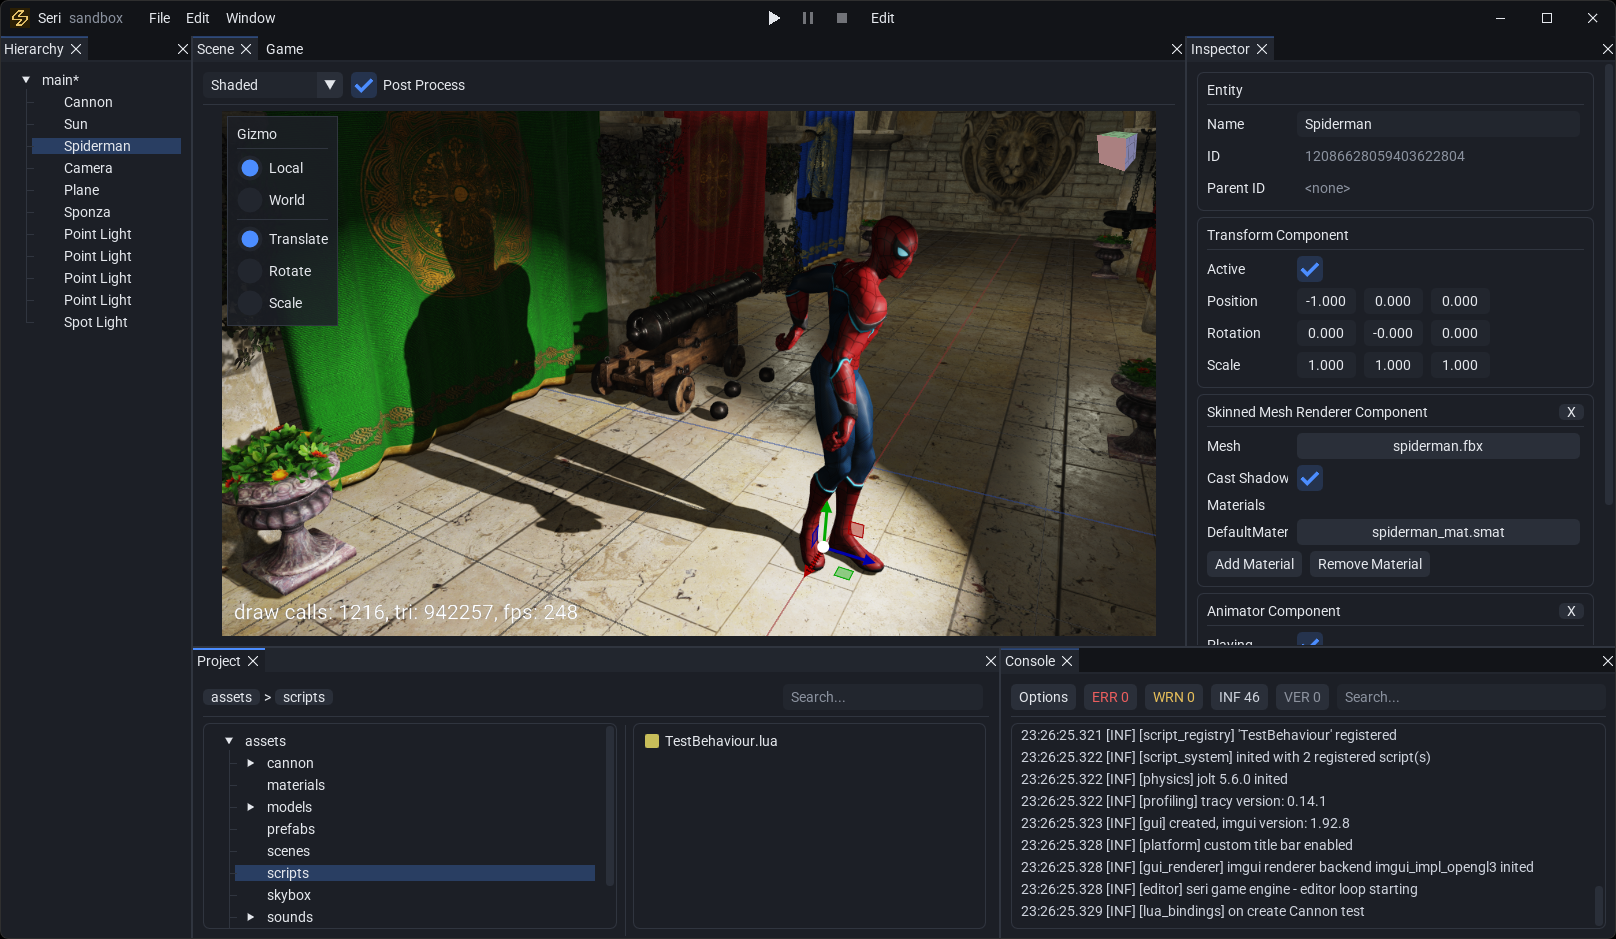
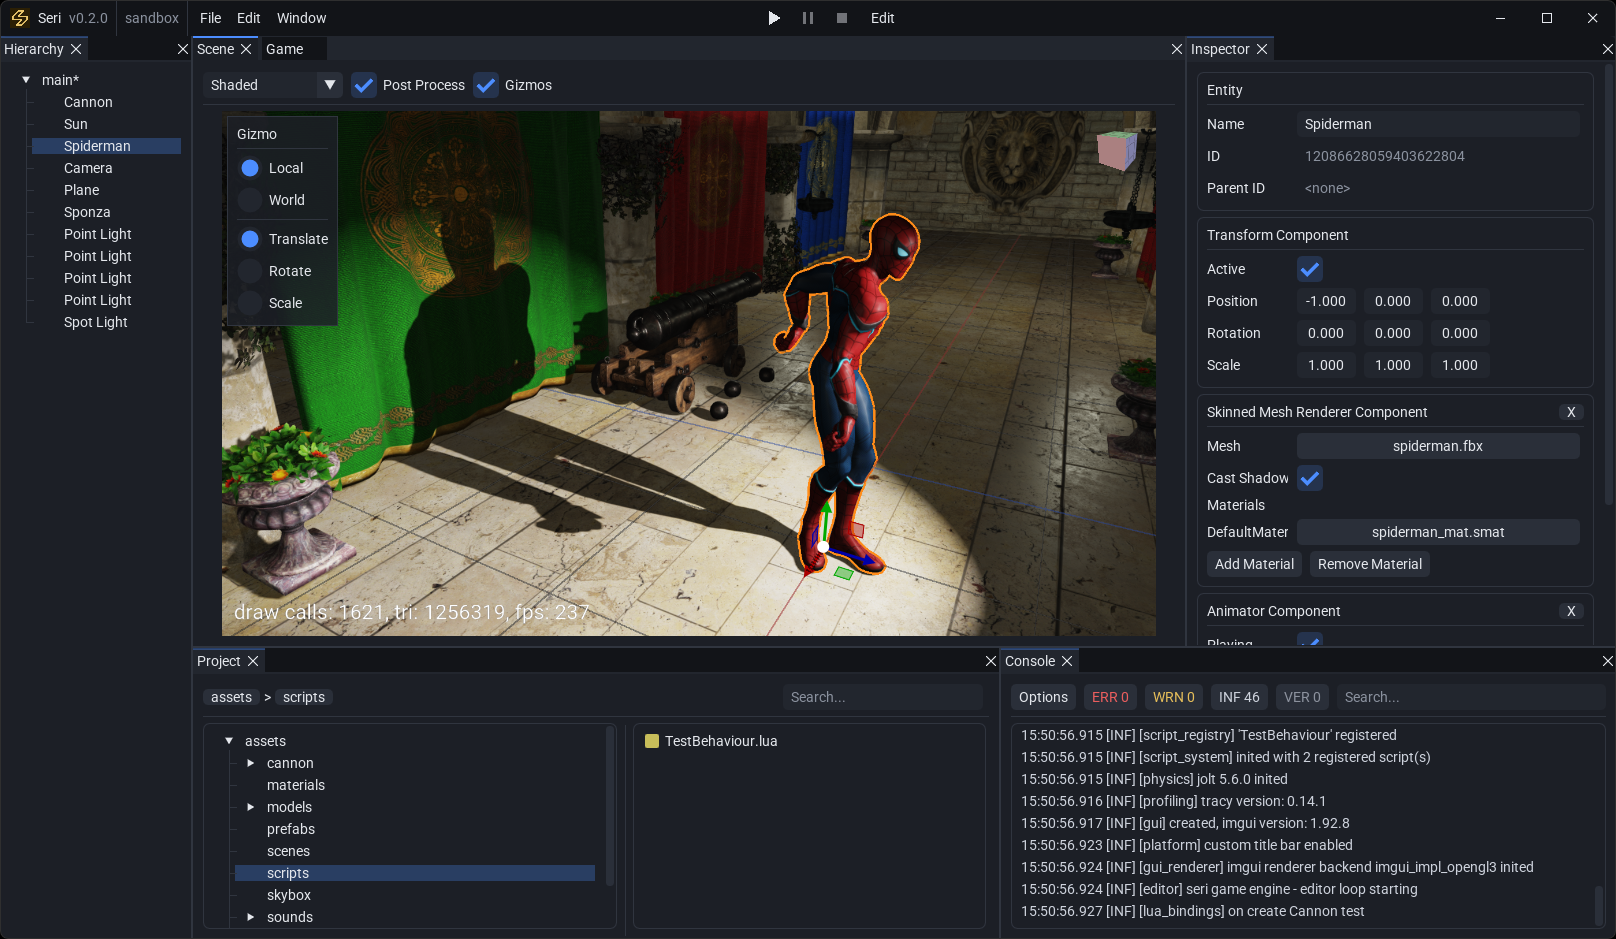
added version to titlebar

diff --git a/editor/src/gui/editor/panels/TitleBar.cpp b/editor/src/gui/editor/panels/TitleBar.cpp
@@ -83,9 +83,10 @@ namespace seri::editor
 			ImGui::Dummy(ImVec2(iconSize, 0.0f));
 
 			ImGui::TextUnformatted("Seri");
+			ImGui::TextDisabled("v%s", seri::literals::kVersion);
+			ImGui::Separator();
 			ImGui::TextDisabled("%s", seri::project::ProjectManager::GetName().c_str());
-
-			ImGui::Dummy(ImVec2(6.0f, 0.0f));
+			ImGui::Separator();
 
 			_menusMinX = ImGui::GetCursorPosX();
 			ShowMenus(ctx);
